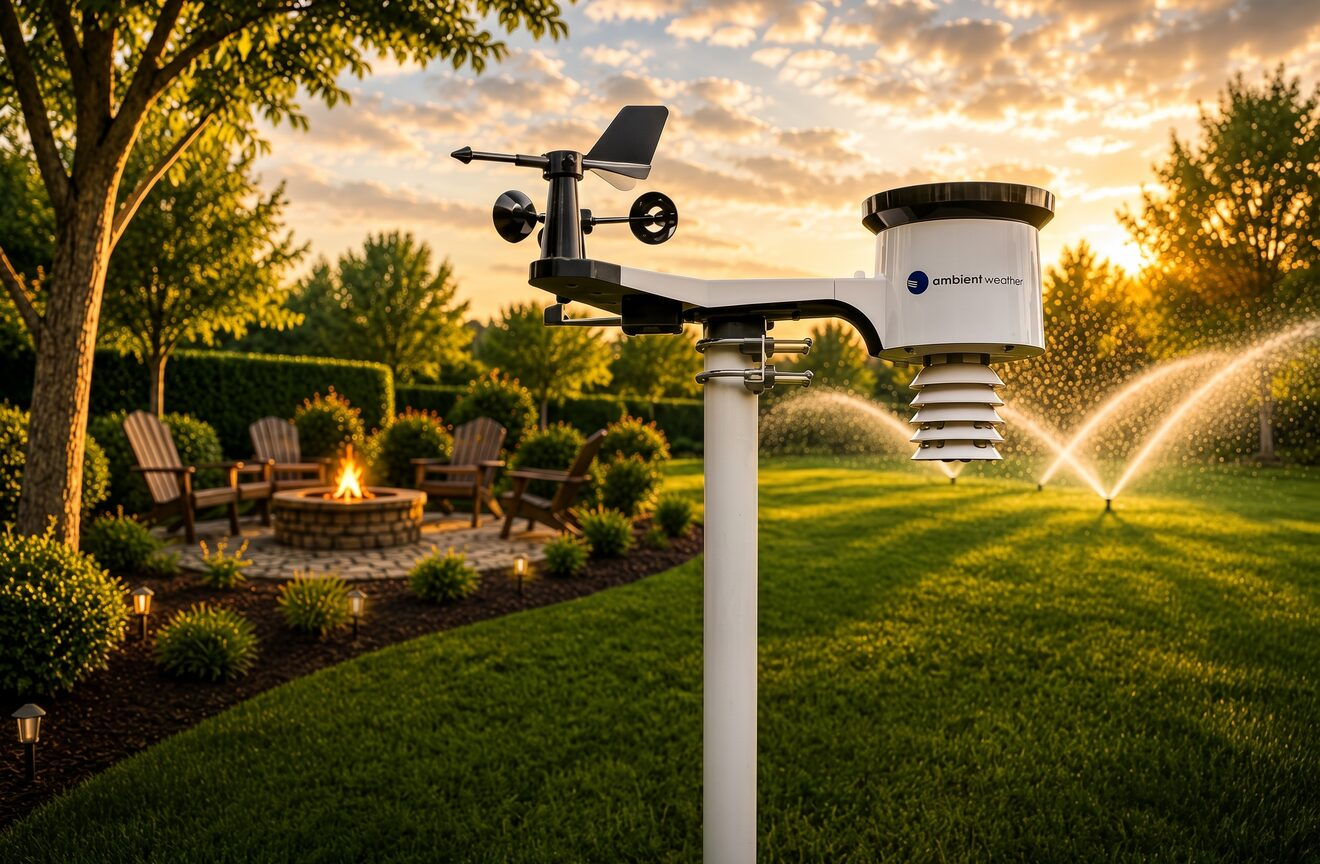
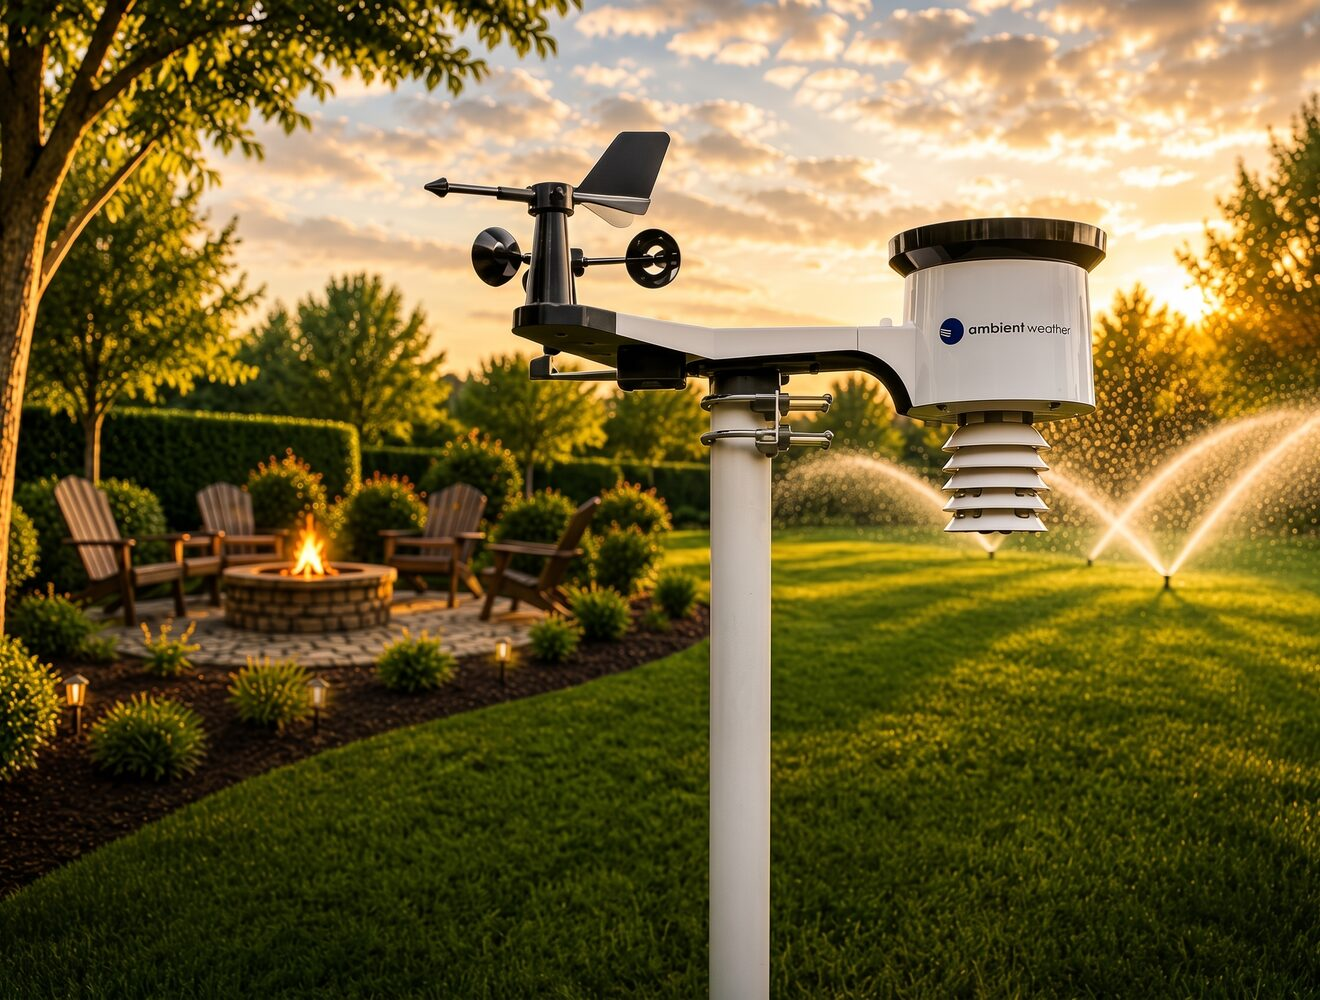
Put the full live conditions readout on the weather photo
Jeff: "Weather yes add the feels like wind chill all that can go in and if
you want to make the pictures bigger so more will fit on them that's great."

All eight live condition cells -- Temp, Feels Like, Dew Point, Humidity,
Wind, UV Index, Pressure, Rain Rate -- now sit inlaid on the weather photo
in the same glass field as the utility readouts. They were MOVED out of the
Weather Conditions card, not copied: the ids have to stay unique or
loadStation()/loadWeather() would write to the wrong node. That card keeps
its station note and refresh button.

The hero is also re-cropped taller, 1.53 -> 1.32, so it renders 295px tall
at a 390px viewport instead of 255px and has room for the readout. Scene is
otherwise untouched, since Jeff likes that picture.

Verified with realistic long values ("SSW 12", "7 High", "0.12in") rather
than placeholders: zero clipped cells, readout fully inside the banner, no
duplicate ids. lint-app.js and smoke-test.js clean.

Service worker hcc-v35 -> v36.

diff --git a/index.html b/index.html
@@ -346,7 +346,34 @@ html,body{
 .sec-hero-irr img{object-position:center top}
 .sec-hero-yard img{object-fit:cover;object-position:center center}
 /* Per-hero aspect = each image's true ratio so the baked-in gold titles never crop */
-.sec-hero-weather{aspect-ratio:1320/864;height:auto;max-height:460px}
+/* Re-cropped taller 08-06 (1.53 -> 1.32) to make room for the full live
+   conditions readout inlaid on the photo — 295px tall at a 390px viewport
+   instead of 255px. Jeff: "if you want to make the pictures bigger so more
+   will fit on them that's great." */
+.sec-hero-weather{aspect-ratio:1320/1000;height:auto;max-height:560px}
+/* ── Live conditions inlaid on the WEATHER photo ──────────────────────────
+   Same glass language as the utility readouts: one soft blurred field of the
+   photo, no per-cell boxes, fixed light-on-dark colours (the overlay sits on
+   a permanently dark-graded photo in both themes). */
+.wx-hero-readout{
+  margin-top:auto;display:grid;grid-template-columns:repeat(4,1fr);
+  gap:clamp(3px,.9vw,8px) 0;
+  padding:clamp(6px,1.6vw,12px) clamp(4px,1.2vw,10px);
+  border-radius:clamp(12px,3.4vw,24px);
+  background:rgba(16,14,12,.16);
+  backdrop-filter:blur(9px) saturate(150%) brightness(.98);-webkit-backdrop-filter:blur(9px) saturate(150%) brightness(.98);
+  box-shadow:0 20px 60px rgba(0,0,0,.35),inset 0 1px rgba(255,255,255,.12);
+}
+.wx-hero-cell{min-width:0;text-align:center}
+.wx-hero-lbl{
+  font-size:clamp(6.6px,1.45vw,11px);font-weight:700;letter-spacing:.5px;text-transform:uppercase;
+  color:rgba(247,229,196,.72);text-shadow:0 1px 6px rgba(0,0,0,.7);line-height:1.2;
+}
+.wx-hero-val{
+  font-size:clamp(11.5px,2.2vw,18px);font-weight:600;margin-top:2px;line-height:1.15;
+  color:#f7f1e7;text-shadow:0 2px 10px rgba(0,0,0,.75);font-variant-numeric:tabular-nums;
+  white-space:nowrap;overflow:hidden;text-overflow:ellipsis;
+}
 .sec-hero-irr{aspect-ratio:1320/864;height:auto;max-height:460px}
 .sec-hero-yard{aspect-ratio:1320/851;height:auto;max-height:460px}
 /* ── HERO MASTER GRADE — REUSABLE MODULE ───────────────────────────────────
@@ -1575,6 +1602,20 @@ html.light .grd-light-toggle.on{background:rgba(21,128,61,.12);color:#15803d;bor
           <div style="font-size:9px;font-weight:700;color:rgba(212,175,55,.65);letter-spacing:.5px;margin-top:2px;font-family:var(--serif)">WU Recognized</div>
         </div>
       </div>
+      <!-- Full live conditions readout, inlaid on the photo (Jeff, 08-06:
+           "Weather yes add the feels like wind chill all that can go in").
+           These are MOVED from the Weather Conditions card, not copied — the
+           ids must stay unique for loadStation()/loadWeather() to find them. -->
+      <div class="wx-hero-readout" id="wxHeroReadout">
+        <div class="wx-hero-cell"><div class="wx-hero-lbl">Temp</div><div class="wx-hero-val" id="wxTemp">--</div></div>
+        <div class="wx-hero-cell"><div class="wx-hero-lbl">Feels Like</div><div class="wx-hero-val" id="wxFeels">--</div></div>
+        <div class="wx-hero-cell"><div class="wx-hero-lbl">Dew Point</div><div class="wx-hero-val" id="wxDew">--</div></div>
+        <div class="wx-hero-cell"><div class="wx-hero-lbl">Humidity</div><div class="wx-hero-val" id="wxHumidity">--</div></div>
+        <div class="wx-hero-cell"><div class="wx-hero-lbl">Wind</div><div class="wx-hero-val" id="wxWindDir">--</div></div>
+        <div class="wx-hero-cell"><div class="wx-hero-lbl">UV Index</div><div class="wx-hero-val" id="wxUV">--</div></div>
+        <div class="wx-hero-cell"><div class="wx-hero-lbl">Pressure</div><div class="wx-hero-val" id="wxPressure">--</div></div>
+        <div class="wx-hero-cell"><div class="wx-hero-lbl">Rain Rate</div><div class="wx-hero-val" id="wxRainRate">--</div></div>
+      </div>
     </div>
   </div>
 </div>
@@ -2003,16 +2044,8 @@ html.light .grd-light-toggle.on{background:rgba(21,128,61,.12);color:#15803d;bor
     <!-- WEATHER CONDITIONS AT 301 (mowing/soil metrics moved to YARD) -->
     <div class="card cat-weather" id="wxConditionsCard">
       <div class="card-title">&#127780; Weather Conditions at 301</div>
-      <div class="wx-grid">
-        <div class="wx-card"><div class="wx-lbl">Temperature</div><div class="wx-val" id="wxTemp">--</div></div>
-        <div class="wx-card"><div class="wx-lbl">Feels Like</div><div class="wx-val" id="wxFeels">--</div></div>
-        <div class="wx-card"><div class="wx-lbl">Dew Point</div><div class="wx-val" id="wxDew">--</div></div>
-        <div class="wx-card"><div class="wx-lbl">Humidity</div><div class="wx-val" id="wxHumidity">--</div></div>
-        <div class="wx-card"><div class="wx-lbl">Wind Dir</div><div class="wx-val" id="wxWindDir">--</div></div>
-        <div class="wx-card"><div class="wx-lbl">UV Index</div><div class="wx-val" id="wxUV">--</div></div>
-        <div class="wx-card"><div class="wx-lbl">Pressure</div><div class="wx-val" id="wxPressure">--</div></div>
-        <div class="wx-card"><div class="wx-lbl">Rain Rate</div><div class="wx-val" id="wxRainRate">--</div></div>
-      </div>
+      <!-- The 8 live condition cells moved onto the hero photo (08-06). Kept
+           here as a comment so it's obvious where they went, not duplicated. -->
       <div id="wxStationNote" class="wx-note"></div>
       <button class="btn-full btn-gray" onclick="loadWeather()">&#128260; Refresh Weather</button>
     </div>

diff --git a/service-worker.js b/service-worker.js
@@ -1,4 +1,4 @@
-const CACHE_NAME = "hcc-v35";
+const CACHE_NAME = "hcc-v36";
 const CRITICAL_ASSETS = [
   "./",
   "./index.html",
